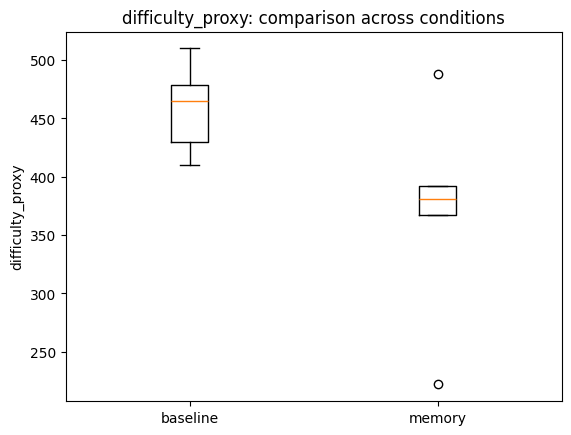
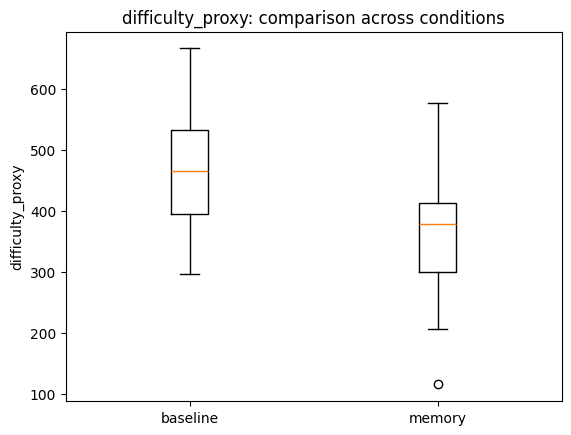
New metric added: M3 missed actions rate

diff --git a/experiment.py b/experiment.py
@@ -1,12 +1,13 @@
 """
 Warunki:
-- baseline: brak pamięci/gatingu (NPC ma pełne ACTIONS w DARK)
+- baseline: brak pamięci/gatingu (NPC ma pełne ACTIONS od początku)
 - memory:  gating wg akcji gracza z poprzedniego cyklu LIGHT (domyślnie K=1)
 
 Metryki (per epizod):
-- m1_coverage:   średni odsetek akcji z LIGHT[t], których NPC użył w DARK[t]
-- m2_latency_cycles: średnia liczba cykli do pierwszego użycia akcji po jej „wprowadzeniu” przez gracza
-- m3_cpu_ms_per_tick: średni koszt CPU (ms) na tick (pomiar perf_counter)
+- m1_coverage:   średni odsetek akcji z LIGHT[c-1], których NPC użył w cyklu c
+- m2_latency_cycles: średnia liczba cykli od obserwacji do pierwszego użycia (tylko dla akcji, które zaszły)
+- m3_missed_actions_rate: odsetek akcji, które NPC zobaczył, ale nigdy ich nie użył
+- m4_cpu_ms_per_tick: średni koszt CPU (ms) na tick (pomiar perf_counter)
 - difficulty_proxy:  łączna utrata HP gracza (suma obrażeń zadanych przez NPC)
 
 Uwaga: interfejs pozostaje zgodny z analysis_plot.py oraz run_experiment.py.
@@ -45,7 +46,7 @@ cycles: int = 5, condition: str = 'memory') -> Dict[str, float]:
         for c in range(1, cycles + 1):
             allowed = set(MOVES_ONLY)  # NPC zaczyna tylko z przemieszczaniem się
             observed_prev = light_history[-1] if len(light_history) > 0 else set()
-            learned_prev = {a for a in observed_light if a in LEARNABLE}
+            learned_prev = {a for a in observed_prev if a in LEARNABLE}
             allowed = set(MOVES_ONLY) | learned_prev  # ew. dodanie ruchów dla NPC z LEARNABLE
             observed_light: Set[str] = set()
             
@@ -60,6 +61,9 @@ cycles: int = 5, condition: str = 'memory') -> Dict[str, float]:
                 # NPC observation:
                 env.step_player(action_p)
                 observed_light.add(action_p)
+                if action_p in LEARNABLE and action_p not in first_seen_cycle:
+                    first_seen_cycle[action_p] = c  # pierwszy raz „widziana” w tym cyklu
+                
                 if action_n:
                     prev_player_hp = env.player_hp
                     env.step_npc(action_n)
@@ -74,14 +78,8 @@ cycles: int = 5, condition: str = 'memory') -> Dict[str, float]:
                 
                     # latencja: jeśli akcję już „widziano” i jeszcze nie zarejestrowano użycia → zapisz
                 if action_n in LEARNABLE:
-                    seen_c = first_seen_cycle.get(action_n, None)
-                    if seen_c is not None and action_n not in first_used_cycle:
+                    if action_n in first_seen_cycle and action_n not in first_used_cycle:
                         first_used_cycle[action_n] = c  # pierwszy raz użyta w tym cyklu
-
-            
-            for a in observed_light:
-                if a in LEARNABLE and a not in first_seen_cycle:
-                    first_seen_cycle[a] = c
             
             # DARK Phase
             for t in range(dark_ticks):
@@ -101,8 +99,7 @@ cycles: int = 5, condition: str = 'memory') -> Dict[str, float]:
 
                     # latencja: jeśli akcję już „widziano” i jeszcze nie zarejestrowano użycia → zapisz
                 if action_n in LEARNABLE:
-                    seen_c = first_seen_cycle.get(action_n, None)
-                    if seen_c is not None and action_n not in first_used_cycle:
+                    if action_n in first_seen_cycle and action_n not in first_used_cycle:
                         first_used_cycle[action_n] = c  # pierwszy raz użyta w tym cyklu
 
                 env.tick_cooldowns()
@@ -112,9 +109,8 @@ cycles: int = 5, condition: str = 'memory') -> Dict[str, float]:
             # Pokrycie dla cyklu c: ile z akcji z LIGHT[c-1] zostało użytych w cyklu c
             ref = {a for a in observed_prev if a in LEARNABLE}
             used = {a for a in used_in_cycle if a in LEARNABLE}
-            denom = len(ref) if ref else 1
-            coverage = len(used & ref) / denom
-            coverage_per_cycle.append(coverage)
+            if ref:
+                coverage_per_cycle.append(len(used & ref) / len(ref))
             
             light_history.append(observed_light)  # dodanie observed_light z bieżącego LIGHT[c] do historii obserwacji
     
@@ -136,6 +132,9 @@ cycles: int = 5, condition: str = 'memory') -> Dict[str, float]:
                 # NPC observation:
                 env.step_player(action_p)
                 observed_light.add(action_p)
+                if action_p in LEARNABLE and action_p not in first_seen_cycle:
+                    first_seen_cycle[action_p] = c  # pierwszy raz „widziana” w tym cyklu
+                
                 if action_n:
                     prev_player_hp = env.player_hp
                     env.step_npc(action_n)
@@ -150,14 +149,8 @@ cycles: int = 5, condition: str = 'memory') -> Dict[str, float]:
                 
                     # latencja: jeśli akcję już „widziano” i jeszcze nie zarejestrowano użycia → zapisz
                 if action_n in LEARNABLE:
-                    seen_c = first_seen_cycle.get(action_n, None)
-                    if seen_c is not None and action_n not in first_used_cycle:
-                        first_used_cycle[action_n] = c  # pierwszy raz użyta w tym cyklu
-
-            
-            for a in observed_light:
-                if a in LEARNABLE and a not in first_seen_cycle:
-                    first_seen_cycle[a] = c
+                    if action_n in first_seen_cycle and action_n not in first_used_cycle:
+                        first_used_cycle[action_n] = c
             
             # DARK Phase
             for t in range(dark_ticks):
@@ -177,8 +170,7 @@ cycles: int = 5, condition: str = 'memory') -> Dict[str, float]:
 
                     # latencja: jeśli akcję już „widziano” i jeszcze nie zarejestrowano użycia → zapisz
                 if action_n in LEARNABLE:
-                    seen_c = first_seen_cycle.get(action_n, None)
-                    if seen_c is not None and action_n not in first_used_cycle:
+                    if action_n in first_seen_cycle and action_n not in first_used_cycle:
                         first_used_cycle[action_n] = c  # pierwszy raz użyta w tym cyklu
 
                 env.tick_cooldowns()
@@ -188,31 +180,29 @@ cycles: int = 5, condition: str = 'memory') -> Dict[str, float]:
             # Pokrycie dla cyklu c: ile z akcji z LIGHT[c-1] zostało użytych w cyklu c
             ref = {a for a in observed_prev if a in LEARNABLE}
             used = {a for a in used_in_cycle if a in LEARNABLE}
-            denom = len(ref) if ref else 1
-            coverage = len(used & ref) / denom
-            coverage_per_cycle.append(coverage)
+            if ref:
+                coverage_per_cycle.append(len(used & ref) / len(ref))
+            
+            light_history.append(observed_light)  # dodanie observed_light z bieżącego LIGHT[c] do historii obserwacji
     
     # ---------------- Agregacja metryk ----------------
-    m1_coverage = sum(coverage_per_cycle) / len(coverage_per_cycle)
+    m1_coverage = sum(coverage_per_cycle) / len(coverage_per_cycle) if coverage_per_cycle else float('nan')
 
     # Latencja liczona tylko dla akcji, które kiedykolwiek zobaczono
-    latencies = []
-    for a, seen_c in first_seen_cycle.items():
-        used_c = first_used_cycle.get(a, None)
-        if used_c is not None:
-            latencies.append(max(0, used_c - seen_c))  # ile cykli po „zobaczeniu”
-        else:
-            # jeśli nigdy nie użyto, potraktuj jako „nie użyto w horyzoncie” → cycles - seen_c + 1
-            latencies.append(cycles - seen_c + 1)
+    seen_f = set(first_seen_cycle)
+    used_f = set(first_used_cycle)
+    latencies = [first_used_cycle[a] - first_seen_cycle[a] for a in (seen_f & used_f)]
     m2_latency = (sum(latencies) / len(latencies)) if latencies else float('nan')
+    m3_missed_rate = (len(seen_f - used_f) / len(seen_f)) if seen_f else float('nan')
 
-    m3_cpu_ms = 1000.0 * (sum(cpu_times) / len(cpu_times)) if cpu_times else 0.0
+    m4_cpu_ms = 1000.0 * (sum(cpu_times) / len(cpu_times)) if cpu_times else 0.0
     difficulty = float(damage_to_player_total)
 
     return {
         'm1_coverage': m1_coverage,
         'm2_latency_cycles': m2_latency,
-        'm3_cpu_ms_per_tick': m3_cpu_ms,
+        'm3_missed_actions_rate': m3_missed_rate,
+        'm4_cpu_ms_per_tick': m4_cpu_ms,
         'difficulty_proxy': difficulty,
     }
 

diff --git a/run_experiment.py b/run_experiment.py
@@ -25,7 +25,7 @@ DEFAULT_CONDITIONS = ['memory', 'baseline']
 def parse_args() -> argparse.Namespace:
     p = argparse.ArgumentParser(description='Batch runner for ECHO-like experiment')
     p.add_argument('--outdir', type=str, default='data', help='Katalog wyjściowy na CSV/figury')
-    p.add_argument('--seeds', type=str, default='0,1,2,3,4', help='Lista seedów rozdzielona przecinkami')
+    p.add_argument('--seeds', type=str, default='0,1,2,3,4,5,6,7,8,9,10,11,12,13,14,15,16,17,18,19,20,21,22,23,24,25,26,27,28,29,30,31,32,33,34,35,36,37,38,39,40,41,42,43,44,45,46,47,48,49', help='Lista seedów rozdzielona przecinkami')
     p.add_argument('--cycles', type=int, default=5, help='Liczba cykli LIGHT/DARK w epizodzie')
     p.add_argument('--light_ticks', type=int, default=100, help='Długość fazy LIGHT (ticki)')
     p.add_argument('--dark_ticks', type=int, default=100, help='Długość fazy DARK (ticki)')
@@ -64,9 +64,10 @@ def main() -> None:
 
         m1 = avg('m1_coverage')
         m2 = avg('m2_latency_cycles')
-        m3 = avg('m3_cpu_ms_per_tick')
+        m3 = avg('m3_missed_actions_rate')
+        m4 = avg('m4_cpu_ms_per_tick')
         diff = avg('difficulty_proxy')
-        print(f'[{cond}] m1_coverage={m1:.3f}, m2_latency={m2:.3f} cycles, m3_cpu={m3:.4f} ms/tick, difficulty={diff:.1f}')
+        print(f'[{cond}] m1_coverage={m1:.3f}, m2_latency={m2:.3f} cycles, m3_miss_rate={m3:.3f} m4_cpu={m4:.4f} ms/tick, difficulty={diff:.1f}')
 
     # Dodatkowo wydrukuj „sample” pierwszego wiersza memory/baseline (gdy istnieją)
     for cond in ['memory', 'baseline']:

diff --git a/analysis_plot.py b/analysis_plot.py
@@ -8,7 +8,7 @@ Funkcje:
 - Zapisuje podsumowanie (średnia, odchylenie std, min, max) do data/summary_metrics.csv
 
 Użycie:
-  python analysis_plot.py --outdir data --metrics m1_coverage,m2_latency_cycles,m3_cpu_ms_per_tick,difficulty_proxy
+  python analysis_plot.py --outdir data --metrics m1_coverage,m2_latency_cycles,m3_missed_actions_rate,m4_cpu_ms_per_tick,difficulty_proxy
 """
 
 from __future__ import annotations
@@ -27,7 +27,7 @@ def parse_args():
     ap.add_argument(
         '--metrics',
         type=str,
-        default='m1_coverage,m2_latency_cycles,m3_cpu_ms_per_tick,difficulty_proxy',
+        default='m1_coverage,m2_latency_cycles,m3_missed_actions_rate,m4_cpu_ms_per_tick,difficulty_proxy',
         help='Lista metryk rozdzielona przecinkami',
     )
     return ap.parse_args()

diff --git a/viewer_ascii.py b/viewer_ascii.py
@@ -107,7 +107,6 @@ speed: float, record_path: Optional[str], seed: int):
         observed_light: Set[str] = set()
         for c in range(1, cycles+1):
             allowed = set(MOVES_ONLY)  # NPC zaczyna tylko z przemieszczaniem się
-            # last_light = light_history[-1] if len(light_history) > 0 else set()
             learned_prev = {a for a in observed_light if a in LEARNABLE}
             allowed = set(MOVES_ONLY) | learned_prev  # ew. dodanie ruchów dla NPC z LEARNABLE
             observed_light: Set[str] = set()
